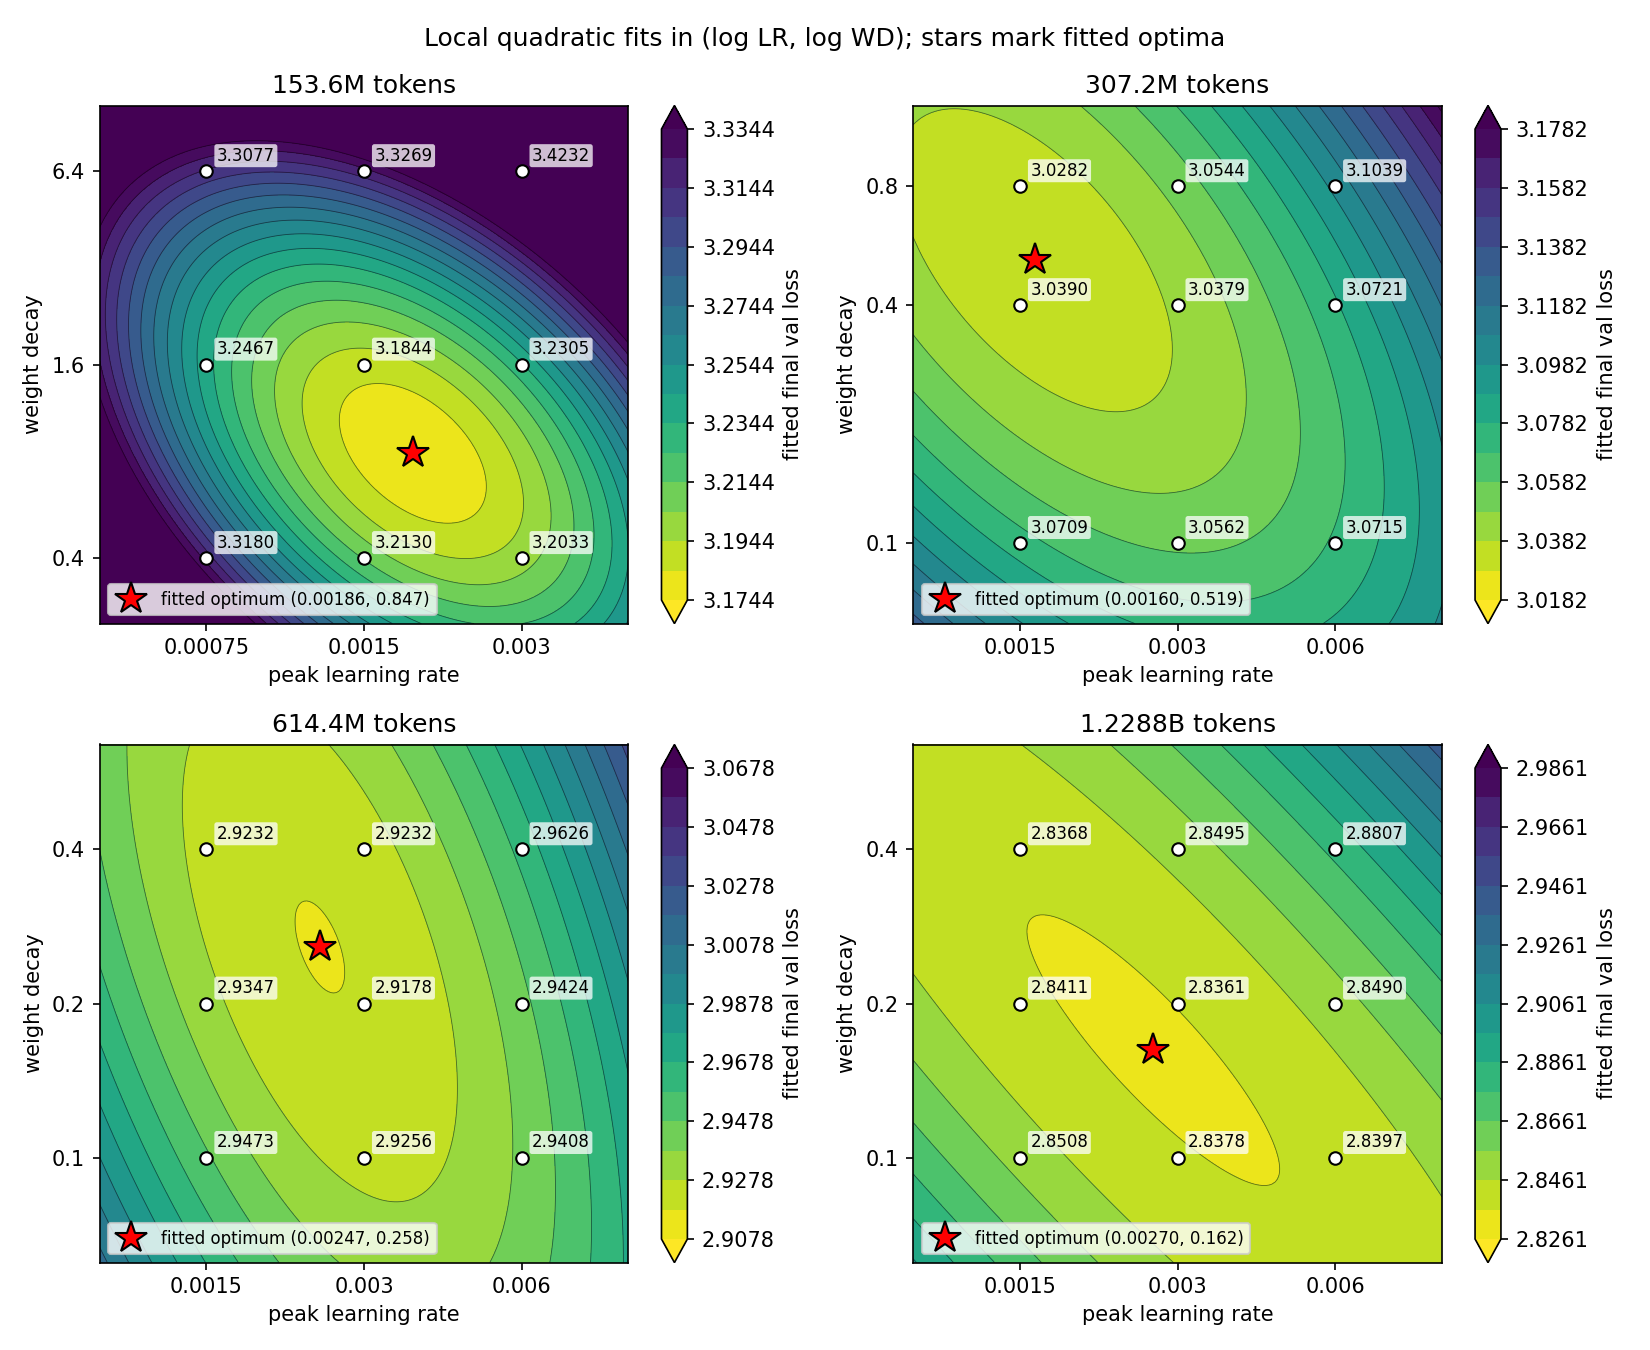
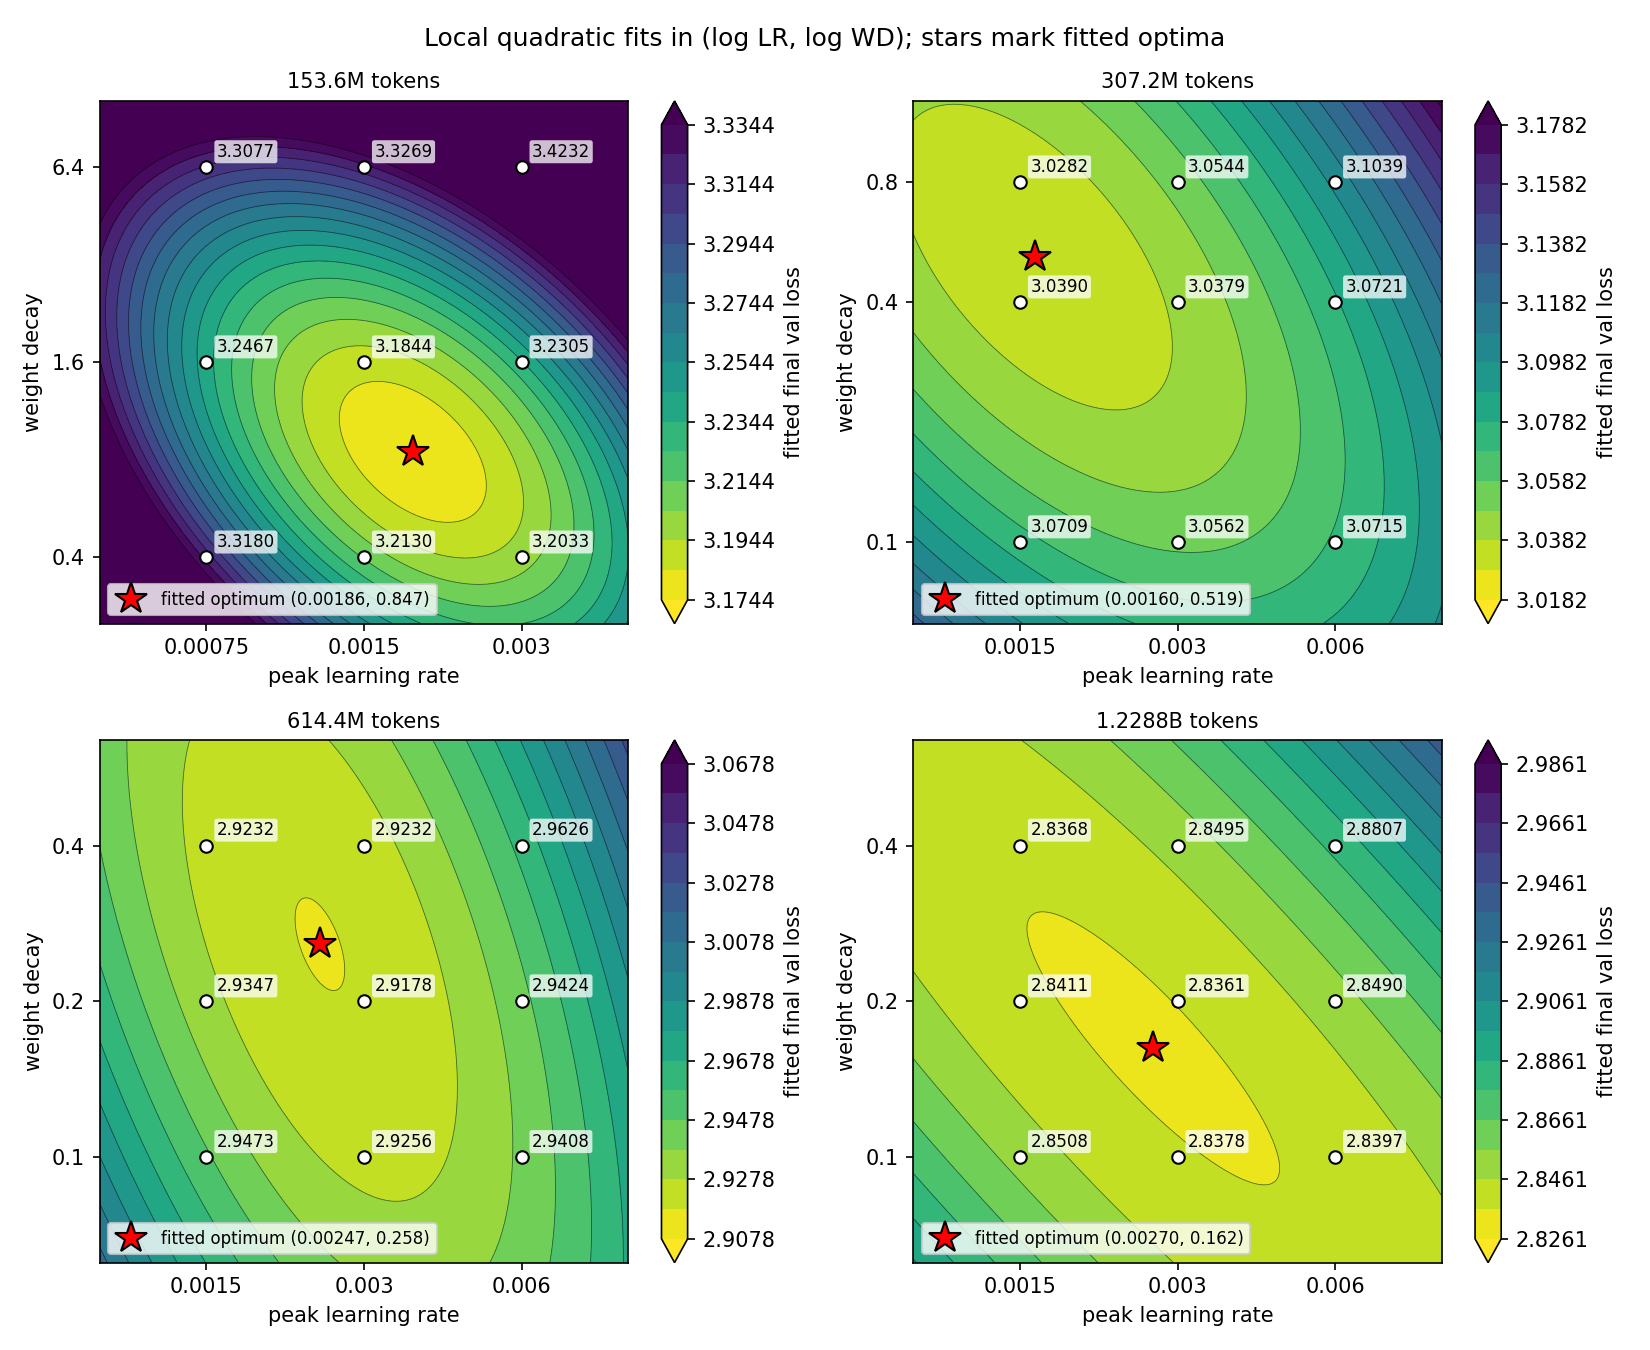
A2 P2(b): product-line contours, valley slopes, and R² of the scaling fits

diff --git a/scripts/a2_p2_lr_wd.py b/scripts/a2_p2_lr_wd.py
@@ -80,15 +80,39 @@ def lr_only_best_losses():
     return dict(sorted(best.items()))
 
 
-def save(fig, name):
-    fig.tight_layout()
+def save(fig, name, rect=(0, 0, 1, 1)):
+    fig.tight_layout(rect=rect)
     OUTPUT_DIR.mkdir(parents=True, exist_ok=True)
     path = OUTPUT_DIR / name
     fig.savefig(path, dpi=150)
     print(f"saved {path}")
 
 
-def plot_contours(budgets, fits, optima):
+def valley_slope(coefficients):
+    """d log(WD) / d log(LR) along the fitted surface's flattest direction."""
+    _, _, _, d, e, f = coefficients
+    _, vectors = np.linalg.eigh(np.array([[2 * d, e], [e, 2 * f]]))
+    x, y = vectors[:, 0]
+    return y / x
+
+
+def r_squared(tokens, values):
+    """R^2 of a power law, measured in log-log space."""
+    exponent, log_coefficient = fit_power_law(tokens, values)
+    log_values = np.log(values)
+    residuals = log_values - (log_coefficient + exponent * np.log(tokens))
+    return 1 - np.sum(residuals**2) / np.sum((log_values - log_values.mean())**2)
+
+
+def draw_product_lines(ax, lr_grid, optimum, slope):
+    lr_star, wd_star, _ = optimum
+    ax.plot(lr_grid, lr_star * wd_star / lr_grid, "--", color="white", linewidth=2,
+            label="ηλ = η*λ* (slope −1)")
+    ax.plot(lr_grid, wd_star * (lr_grid / lr_star)**slope, ":", color="red", linewidth=2,
+            label="fitted valley direction")
+
+
+def plot_contours(budgets, fits, optima, name, product_lines=False):
     fig, axes = plt.subplots(2, 2, figsize=(11, 9))
     for ax, (tokens, points) in zip(axes.flat, budgets.items()):
         lrs, wds = np.unique(points[:, 0]), np.unique(points[:, 1])
@@ -105,19 +129,33 @@ def plot_contours(budgets, fits, optima):
             ax.annotate(f"{loss:.4f}", (lr, wd), textcoords="offset points", xytext=(5, 5), fontsize=8,
                         bbox=dict(boxstyle="round,pad=0.15", fc="white", ec="none", alpha=0.75))
         lr_star, wd_star, loss_star = optima[tokens]
-        ax.plot(lr_star, wd_star, "*", color="red", markersize=16, markeredgecolor="k",
-                label=f"fitted optimum ({lr_star:.5f}, {wd_star:.3f})")
+        title = f"{p1.token_label(tokens)} tokens"
+        optimum_label = f"fitted optimum ({lr_star:.5f}, {wd_star:.3f})"
+        if product_lines:
+            slope = valley_slope(fits[tokens])
+            draw_product_lines(ax, lr_grid, optima[tokens], slope)
+            title += f": η*λ* = {lr_star * wd_star:.2e}, valley slope {slope:.2f}"
+            optimum_label = "fitted optimum"
+        ax.plot(lr_star, wd_star, "*", color="red", markersize=16, markeredgecolor="k", label=optimum_label)
         ax.set_xscale("log")
         ax.set_yscale("log")
+        ax.set_xlim(lr_grid[0], lr_grid[-1])
+        ax.set_ylim(wd_grid[0], wd_grid[-1])
         ax.set_xticks(lrs, [f"{lr:g}" for lr in lrs])
         ax.set_yticks(wds, [f"{wd:g}" for wd in wds])
         ax.minorticks_off()
         ax.set_xlabel("peak learning rate")
         ax.set_ylabel("weight decay")
-        ax.set_title(f"{p1.token_label(tokens)} tokens")
-        ax.legend(fontsize=8, loc="lower left")
+        ax.set_title(title, fontsize=10)
+        if not product_lines:
+            ax.legend(fontsize=8, loc="lower left")
     fig.suptitle("Local quadratic fits in (log LR, log WD); stars mark fitted optima")
-    save(fig, "p2a_lr_wd_contours.png")
+    if product_lines:
+        fig.legend(*axes.flat[0].get_legend_handles_labels(), loc="lower center", ncol=3,
+                   facecolor="lightgray")
+        save(fig, name, rect=(0, 0.04, 1, 1))
+    else:
+        save(fig, name)
 
 
 def plot_errorbars(ax, tokens, values, draws, color, label):
@@ -126,11 +164,34 @@ def plot_errorbars(ax, tokens, values, draws, color, label):
                 label=label)
 
 
-def plot_power_law(ax, tokens, values, color):
+def plot_power_law(ax, tokens, values, color, show_r2=False):
     exponent, log_coefficient = fit_power_law(tokens, values)
     line = np.geomspace(tokens.min() / 1.2, tokens.max() * 1.2, 100)
-    ax.plot(line, np.exp(log_coefficient) * line**exponent, "--", color=color, alpha=0.7,
-            label=rf"single power law $\propto D^{{{exponent:.2f}}}$")
+    label = rf"single power law $\propto D^{{{exponent:.2f}}}$"
+    if show_r2:
+        label += f", R² = {r_squared(tokens, values):.3f}"
+    ax.plot(line, np.exp(log_coefficient) * line**exponent, "--", color=color, alpha=0.7, label=label)
+
+
+def plot_scaling_comparison(tokens, lr_stars, wd_stars, draws):
+    """Optimal LR, WD, and their product vs tokens, each with one power law."""
+    series = (("optimal peak LR η*", lr_stars, draws[..., 0], "C0", [.0012, .0015, .002, .0025, .003, .004]),
+              ("optimal weight decay λ*", wd_stars, draws[..., 1], "C2", [.1, .15, .2, .3, .5, .8, 1.2]),
+              ("product η*λ*", lr_stars * wd_stars, draws[..., 0] * draws[..., 1], "C4",
+               [3e-4, 4e-4, 6e-4, 8e-4, 1e-3, 1.5e-3, 2e-3]))
+    fig, axes = plt.subplots(1, 3, figsize=(16, 4.8))
+    for ax, (name, values, value_draws, color, ticks) in zip(axes, series):
+        plot_errorbars(ax, tokens, values, value_draws, color, "fitted optimum (±1σ)")
+        plot_power_law(ax, tokens, values, color, show_r2=True)
+        ax.set_xscale("log")
+        ax.set_yscale("log")
+        ax.set_yticks(ticks, [f"{t:g}" for t in ticks])
+        p1.label_token_budgets(ax, tokens)
+        ax.set_xlabel("training tokens D")
+        ax.set_ylabel(name)
+        ax.set_title(f"{name} vs token budget")
+        ax.legend(fontsize=9)
+    save(fig, "p2b_lr_wd_product_scaling.png")
 
 
 def plot_optima_vs_tokens(tokens, lr_stars, wd_stars, draws, lr_only):
@@ -216,9 +277,29 @@ def main():
     for t, j, s in zip(tokens, joint_best, lr_only_best):
         print(f"{t / 1e6:7.1f}M  best joint {j:.4f}  best P1 {s:.4f}  P1 - joint {s - j:+.4f}")
 
-    plot_contours(budgets, fits, optima)
+    print("\nfitted loss rise for a 2x change from the optimum: along ηλ = const vs one coordinate alone")
+    for t, coefficients in fits.items():
+        lr, wd, loss = optima[t]
+        along = [quadratic_value(coefficients, lr * k, wd / k) - loss for k in (2, .5)]
+        lr_only_moves = [quadratic_value(coefficients, lr * k, wd) - loss for k in (2, .5)]
+        wd_only_moves = [quadratic_value(coefficients, lr, wd * k) - loss for k in (2, .5)]
+        print(f"{t / 1e6:7.1f}M  valley slope {valley_slope(coefficients):+.2f}  "
+              f"along product {along[0]:+.4f}/{along[1]:+.4f}  LR only {lr_only_moves[0]:+.4f}/{lr_only_moves[1]:+.4f}  "
+              f"WD only {wd_only_moves[0]:+.4f}/{wd_only_moves[1]:+.4f}")
+
+    print("\npower-law fits vs tokens (R² in log-log, ±1σ from seed-noise refits)")
+    for name, values, value_draws in (("lr*", lr_stars, draws[..., 0]), ("wd*", wd_stars, draws[..., 1]),
+                                      ("lr*wd*", products, draws[..., 0] * draws[..., 1])):
+        r2_low, r2_high = np.percentile([r_squared(tokens, d) for d in value_draws], [16, 84])
+        ratios = ", ".join(f"{r:.2f}" for r in values[1:] / values[:-1])
+        print(f"{name:7s} exponent {fit_power_law(tokens, values)[0]:+.3f}  "
+              f"R² {r_squared(tokens, values):.3f} [{r2_low:.3f}, {r2_high:.3f}]  per doubling {ratios}")
+
+    plot_contours(budgets, fits, optima, "p2a_lr_wd_contours.png")
+    plot_contours(budgets, fits, optima, "p2b_contours_product_line.png", product_lines=True)
     plot_optima_vs_tokens(tokens, lr_stars, wd_stars, draws, lr_only)
     plot_loss_comparison(tokens, joint_best, lr_only_best)
+    plot_scaling_comparison(tokens, lr_stars, wd_stars, draws)
 
 
 if __name__ == "__main__":

diff --git a/notes/a2/p2/p2_lr_wd_scaling.md b/notes/a2/p2/p2_lr_wd_scaling.md
@@ -33,6 +33,27 @@
 
 ## (b) From coupling to a joint scaling law
 
+![Quadratic fits with the line ηλ = η\*λ\* and the fitted valley direction through each optimum](p2b_contours_product_line.png)
+
+Fitted loss rise for a 2× move away from the optimum. The valley slope is d log λ / d log η along the fitted surface's flattest direction; the line ηλ = const has slope −1.
+
+| Tokens | Valley slope | Along ηλ = η\*λ\* | LR only | WD only |
+| --- | ---: | ---: | ---: | ---: |
+| 153.6M | −2.33 | +0.0376 | +0.0468 | +0.0195 |
+| 307.2M | −1.86 | +0.0098 | +0.0148 | +0.0069 |
+| 614.4M | −2.81 | +0.0136 | +0.0196 | +0.0055 |
+| 1.2288B | −1.11 | +0.0020 | +0.0086 | +0.0072 |
+
+![Optimal LR, optimal WD, and their product vs token budget, each with a single power-law fit](p2b_lr_wd_product_scaling.png)
+
+Single power-law fits over the four budgets (R² in log-log space; ±1σ from seed-noise refits):
+
+| Variable | Exponent | R² (±1σ) | Change per doubling |
+| --- | ---: | --- | --- |
+| η\* | +0.22 | 0.678 (0.25–0.78) | ×0.86, ×1.54, ×1.09 |
+| λ\* | −0.82 | 0.994 (0.82–0.99) | ×0.61, ×0.50, ×0.63 |
+| η\*λ\* | −0.59 | 0.967 (0.90–0.98) | ×0.53, ×0.77, ×0.69 |
+
 ## (c) Test the joint rule
 
 ## Synthesis
